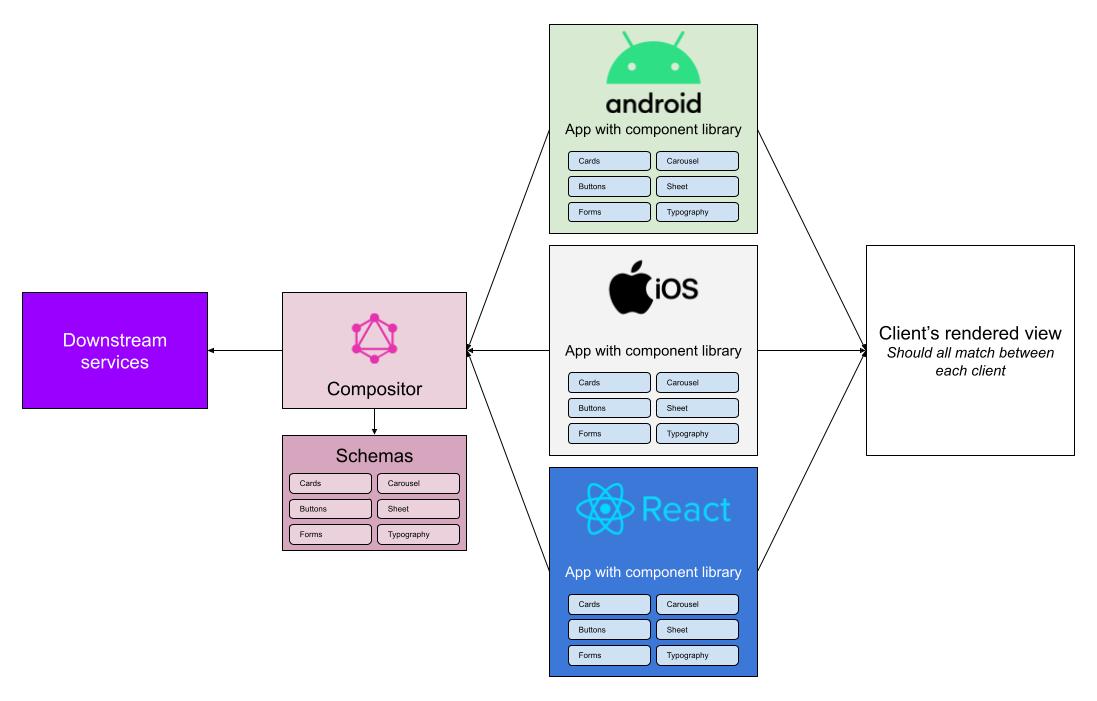
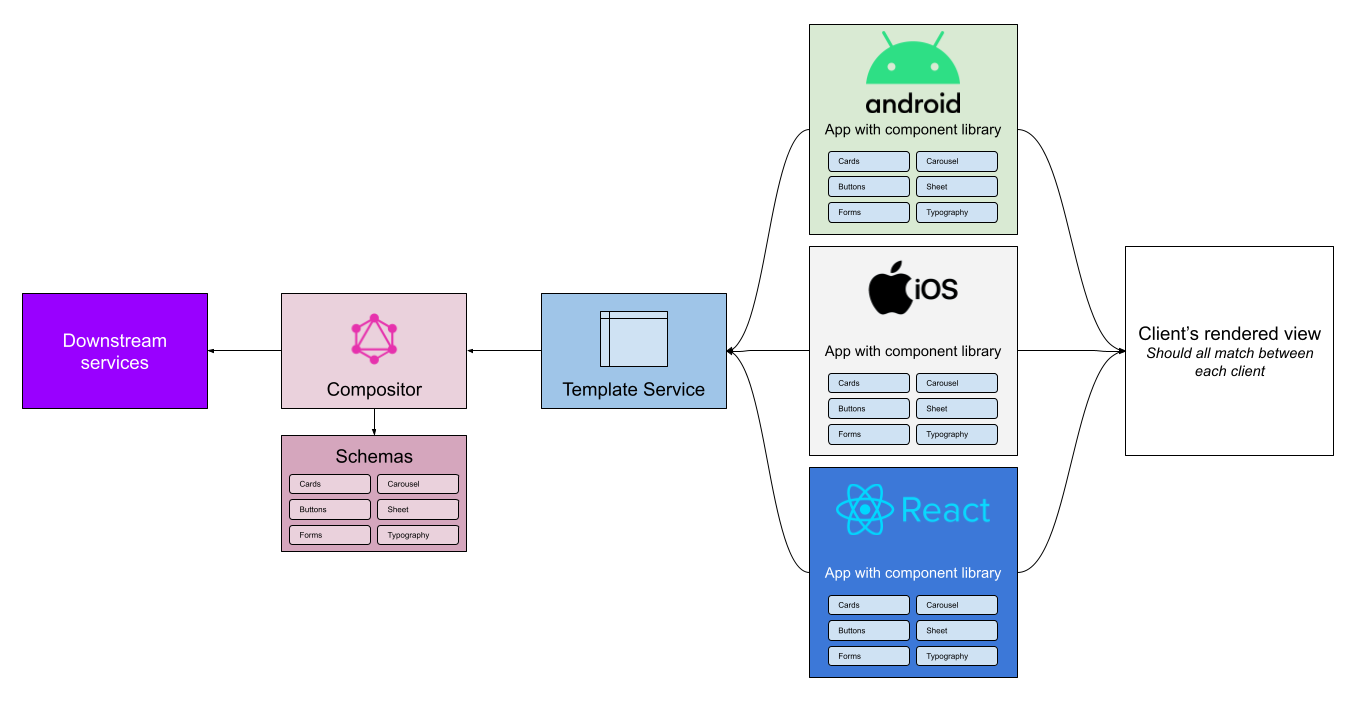
update documentation

Changed region(s): [[0.0, 0.03, 0.9918, 0.9886], [0.7748, 0.6291, 0.9918, 0.6591], [0.7438, 0.3595, 0.7748, 0.4494]]

diff --git a/docs/architecture-fundamentals.md b/docs/architecture-fundamentals.md
@@ -2,14 +2,8 @@
 
 The core principle of this project and in SDUI is to only write once; DRY (don't repeat yourself).
 
-![Architecture overview](images/architecture-overview.jpg)
+![Architecture overview](images/architecture-overview.png)
 Overview diagram illustrating libraries, applications, and services that stitches it all together to make this SDUI.
-
-## GraphQL models (queries, mutations & fragments)
-
-It's important to home all client queries, mutations, and fragments in one place. It's easy for clients to have their own place where developers will write their graphql queries. The issue with this, is that all clients will have to update their fragments and queries rather than doing it in one place for all. It may also lead to inconsistencies and issues where a particular client might be missing a field that will result on missing information that could be important to your user.
-
-Other inconsistencies may include how the fragments may be written. It will lead into having each client having conversations with each other to resolve the same issue. It will reduce unwanted time figuring out how each client has worked on building the fragments when all of these graphql files are kept in one place.
 
 ## Style tokens
 
@@ -23,8 +17,12 @@ Design tokens allows you to be able to update your visual design values and have
 
 ## Application
 
-Android, iOS, and Web applications **should** not contain any business logic. Any business logic, if any, should not be done to the user interface (UI). UI should be dumb and any response given from the server-side must be handled. This is an important and key role to SDUI. **Having any business logic within the UI defeats the purpose of SDUI, as you are now letting the client determine the view rather than the server.**
+Android, iOS, and Web applications **should not contain any business logic**. Any business logic, if any, should not be done to the user interface (UI). UI should be dumb and any response given from the server-side must be handled. This is an important and key role to SDUI. **Having any business logic within the UI defeats the purpose of SDUI, as you are now letting the client determine the view rather than the server.**
+
+## Template service
+
+The template service is the client's one stop shop for building the views. The client can provide some context to the template service for it to tailor specific responses for that domain. This also removes individual clients from having to write their own GraphQL. Rather, all queries can be kept within the template service and let it handle how the presentation should look like. The template service can make 1 or many query calls to build a page and return it as a REST response. Having it return an old robust response such as REST grants some benefits for clients such as caching GET requests. With graphQL requests it's all done via POST and you have to leverage the library like Apollo to handle the caching for you.
 
 ## Compositor (GraphQL Server)
 
-The compositor is the service that composes the view for the client. It should determine the layout, such as, order of components. It will provide the values for the components to render as well as what components to render. The compositor should not contain any styling values, such as, font size, color, spacing, etc. Components are pre-built within the client and should always fulfill the requirements of the designs. **If you were to allow style values within the compositor you are then allowing developers to be able to provide custom values that goes against a design contract. It also confuses the role of responsibility of where the styles should come from, and will also make it hard to find where the root cause is when there is an issue with the visual style.
+The compositor is the service that composes the view elements for a module or page that the template service requests for. This service should determine the presentation, such as, the components layout and the order of components. It should also populate components values using the downstream services. The compositor should not contain any styling values, such as, font size, color, spacing, etc. Components are pre-built within the client and should always fulfill the requirements of the designs. **If you were to allow style values within the compositor you are then allowing developers to be able to provide custom values that goes against a design contract. It also confuses the role of responsibility of where the styles should come from, and will also make it hard to find where the root cause is when there is an issue with the visual style.**

diff --git a/README.md b/README.md
@@ -8,25 +8,25 @@
 
 Server Driven User Interface (SDUI) is a new design paradigm that's being used by companies like [AirBnB](https://medium.com/airbnb-engineering/a-deep-dive-into-airbnbs-server-driven-ui-system-842244c5f5), [Expedia](https://www.apollographql.com/customers/expediagroup/), and [Lyft](https://lyftmobilepodcast.libsyn.com/server-driven-ui-with-kevin-fang-jeff-hurray). [_sources are linked_]
 
-This design paradigm/architecture allows you to ship features faster to your users. It's advantage is directed more towards native applications (Android & iOS) by leveraging prebuilt components within the app that are then composed by the server to build out new experiences to your users without having them update their app.
+This design paradigm/architecture allows you to ship features faster to your users. It's advantage is directed more towards mobile applications (Android & iOS) by leveraging prebuilt components within the app that are then composed by the server to build out new experiences to your users without having them update their app.
 
 ![diagram showing SDUI](docs/images/SDUI.png)
 
-Observing the diagram above, all the clients (android, iOS, and Web - react) are all looking towards the compositor to provide a response for the view. The compositor holds all the schemas to build out the components and the client's are each contracted to build components that can then be coupled.
+Observing the diagram above, all clients (android, iOS, and Web - react) are all looking towards the template service to provide a response for the view. The template service will call the compositor which holds the schemas to build out the components. All clients are bound to build these components based of that schema for it to be coupled to the response.
 
 ## About this project
 
-This project is to be a resource and a playground to learn SDUI. It covers the end to end excluding the downstream services, as it should be self explanatory on how that would work.
+This project is to be used a resource and a playground to learn SDUI. It covers an end to end implementation (excluding the downstream services) on how SDUI works.
 
 The repository is broken up into different modules:
 
 **graphql-server**
 
-This module is the view compositor and will dictate the view. Here you will create your schemas and responses. If you want to update typography, change the layout, build out your component definition, it should be done here.
+This module is the compositor, and is the place where you will define your schemas. When you want to define UI modules, components, pages this is the place. Since it also provides the response, updating your presentation data or changing the layout of your components, it is all done here.
 
-**generated-types**
+**template-server**
 
-Generated types module is to house all graphql queries, mutations, and fragments. It's the one stop shop for all clients to reference. This is to prevent duplicating the queries across clients and to maintain consistency.
+The template server is used as an intermediary between the compositor layer and the client. It can make multiple calls to different queries within the GraphQL server to stitch together a screen/page layout. All clients are required to call the template server to build out the pages. The template server removes the need for clients to build large and complex GraphQL queries in favour of a REST response.
 
 **tokens**
 

diff --git a/template-server/README.md b/template-server/README.md
@@ -1,0 +1,17 @@
+# Template Server
+
+This server side application is used for clients to retrieve the page response. It is designed to remove a lot of the weight clients would have to make in favour of retrieve a single response. The template server may make multiple graphql requests asynchronously and stitch these responses into a single one.
+
+To install:
+
+```
+npm ci
+```
+
+To run:
+
+```
+npm start
+```
+
+It will require graphql-server to be running for it to work.

diff --git a/web-app/README.md b/web-app/README.md
@@ -9,21 +9,13 @@ To install run:
 npm ci
 ```
 
-`web-app` relies on two local packages which will need to be linked first before running this app.
-
-To link these packages run the following:
-
-```
-npm link @csmets/generated-types
-```
-
-and
+`web-app` relies on a local packages which will need to be linked first before running this app.
 
 ```
 npm link @csmets/tokens
 ```
 
-First, run the development server:
+To run the app:
 
 ```bash
 npm run dev

diff --git a/graphql-server/README.md b/graphql-server/README.md
@@ -1,6 +1,6 @@
 # GraphQL Server
 
-This module is to house all the graphQL queries/mutations for clients to use. It's the data provider for clients.
+This module is to house all the graphQL queries for the template server to use. Clients can make direct calls to the GraphQL server for mutations. It's primarily the data provider for the template server.
 
 ## Getting started
 
